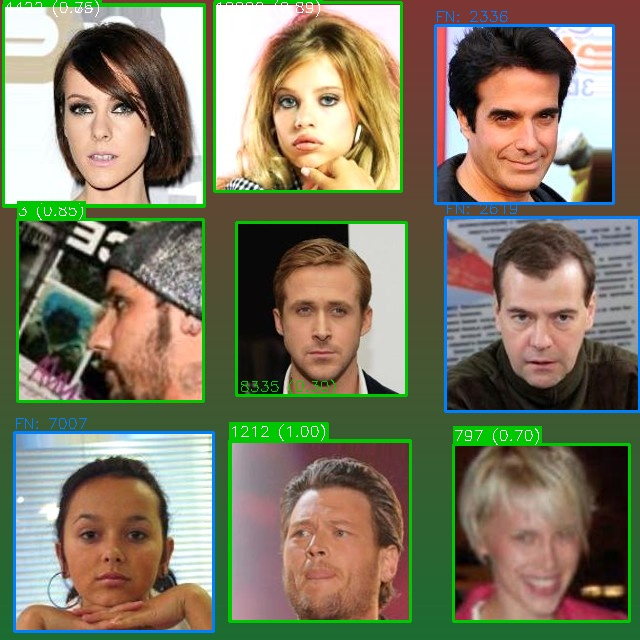
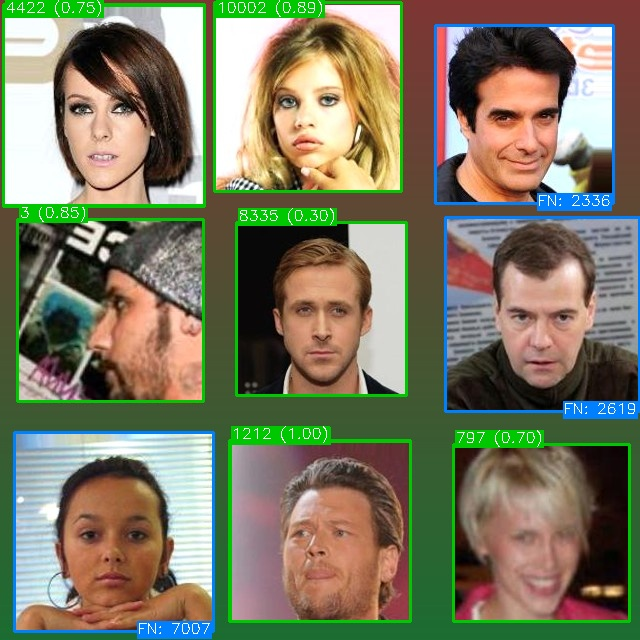
Improved Gallery output

diff --git a/Milestone_4/generate_gallery.py b/Milestone_4/generate_gallery.py
@@ -174,14 +174,19 @@ def main():
                 correct = False; color = (0, 0, 255)
             cv2.rectangle(annotated, (x1, y1), (x2, y2), color, 2)
             text = f"{pred_label} ({confidence:.2f})"
-            if source == "classifier":
-                (tw, th), _ = cv2.getTextSize(text, cv2.FONT_HERSHEY_SIMPLEX, 0.5, 1)
-                cv2.rectangle(annotated, (x1, max(y1-th-6,0)), (x1+tw, y1), color, -1)
-                cv2.putText(annotated, text, (x1, max(y1-4,12)),
-                            cv2.FONT_HERSHEY_SIMPLEX, 0.5, (255,255,255), 1)
+            (tw, th), baseline = cv2.getTextSize(text, cv2.FONT_HERSHEY_SIMPLEX, 0.5, 1)
+            # Place label in a distinct corner by outcome to reduce overlap:
+            #   TP -> top-left, Misclassified -> top-right, FP -> bottom-left
+            if is_tp and pred_label == gt_label:
+                tx, ty = x1 + 2, y1 - 2
+            elif is_tp:
+                tx, ty = x2 - tw - 2, y1 - 2
             else:
-                cv2.putText(annotated, text, (x1+3, y2-4),
-                            cv2.FONT_HERSHEY_SIMPLEX, 0.5, color, 1)
+                tx, ty = x1 + 2, y2 + 2
+            tx = max(0, min(tx, w - tw))
+            ty = max(th, min(ty, h))
+            cv2.rectangle(annotated, (tx, ty - th), (tx + tw, ty + baseline), color, -1)
+            cv2.putText(annotated, text, (tx, ty), cv2.FONT_HERSHEY_SIMPLEX, 0.5, (255,255,255), 1)
             image_faces.append({"det_label": det["class_name"], "pred_label": pred_label,
                                 "confidence": confidence, "source": source,
                                 "gt_label": gt_label, "iou": best_iou, "correct": correct})
@@ -189,8 +194,13 @@ def main():
             if not gt_matched[j]:
                 gx1, gy1, gx2, gy2 = gt["bbox"]
                 cv2.rectangle(annotated, (gx1, gy1), (gx2, gy2), (255,128,0), 2)
-                cv2.putText(annotated, f"FN: {gt['class_name']}", (gx1, gy1-4),
-                            cv2.FONT_HERSHEY_SIMPLEX, 0.5, (255,128,0), 1)
+                fn_text = f"FN: {gt['class_name']}"
+                (tw2, th2), bl2 = cv2.getTextSize(fn_text, cv2.FONT_HERSHEY_SIMPLEX, 0.5, 1)
+                # FN -> bottom-right corner of the missed GT box
+                fx = max(0, min(gx2 - tw2 - 2, w - tw2))
+                fy = max(th2, min(gy2 + 2, h))
+                cv2.rectangle(annotated, (fx, fy - th2), (fx + tw2, fy + bl2), (255,128,0), -1)
+                cv2.putText(annotated, fn_text, (fx, fy), cv2.FONT_HERSHEY_SIMPLEX, 0.5, (255,255,255), 1)
         cv2.imwrite(os.path.join(GALLERY_DIR, f"baseline_{img_name}"), annotated)
         n_correct = sum(1 for f in image_faces if f["correct"])
         n_incorrect = sum(1 for f in image_faces if not f["correct"])

diff --git a/Milestone_4/generate_gallery_improved.py b/Milestone_4/generate_gallery_improved.py
@@ -173,14 +173,19 @@ def main():
                 correct = False; color = (0, 0, 255)
             cv2.rectangle(annotated, (x1, y1), (x2, y2), color, 2)
             text = f"{pred_label} ({confidence:.2f})"
-            if source == "classifier":
-                (tw, th), _ = cv2.getTextSize(text, cv2.FONT_HERSHEY_SIMPLEX, 0.5, 1)
-                cv2.rectangle(annotated, (x1, max(y1-th-6,0)), (x1+tw, y1), color, -1)
-                cv2.putText(annotated, text, (x1, max(y1-4,12)),
-                            cv2.FONT_HERSHEY_SIMPLEX, 0.5, (255,255,255), 1)
+            (tw, th), baseline = cv2.getTextSize(text, cv2.FONT_HERSHEY_SIMPLEX, 0.5, 1)
+            # Place label in a distinct corner by outcome to reduce overlap:
+            #   TP -> top-left, Misclassified -> top-right, FP -> bottom-left
+            if is_tp and pred_label == gt_label:
+                tx, ty = x1 + 2, y1 - 2
+            elif is_tp:
+                tx, ty = x2 - tw - 2, y1 - 2
             else:
-                cv2.putText(annotated, text, (x1+3, y2-4),
-                            cv2.FONT_HERSHEY_SIMPLEX, 0.5, color, 1)
+                tx, ty = x1 + 2, y2 + 2
+            tx = max(0, min(tx, w - tw))
+            ty = max(th, min(ty, h))
+            cv2.rectangle(annotated, (tx, ty - th), (tx + tw, ty + baseline), color, -1)
+            cv2.putText(annotated, text, (tx, ty), cv2.FONT_HERSHEY_SIMPLEX, 0.5, (255,255,255), 1)
             image_faces.append({"det_label": det["class_name"], "pred_label": pred_label,
                                 "confidence": confidence, "source": source,
                                 "gt_label": gt_label, "iou": best_iou, "correct": correct})
@@ -188,8 +193,13 @@ def main():
             if not gt_matched[j]:
                 gx1, gy1, gx2, gy2 = gt["bbox"]
                 cv2.rectangle(annotated, (gx1, gy1), (gx2, gy2), (255,128,0), 2)
-                cv2.putText(annotated, f"FN: {gt['class_name']}", (gx1, gy1-4),
-                            cv2.FONT_HERSHEY_SIMPLEX, 0.5, (255,128,0), 1)
+                fn_text = f"FN: {gt['class_name']}"
+                (tw2, th2), bl2 = cv2.getTextSize(fn_text, cv2.FONT_HERSHEY_SIMPLEX, 0.5, 1)
+                # FN -> bottom-right corner of the missed GT box
+                fx = max(0, min(gx2 - tw2 - 2, w - tw2))
+                fy = max(th2, min(gy2 + 2, h))
+                cv2.rectangle(annotated, (fx, fy - th2), (fx + tw2, fy + bl2), (255,128,0), -1)
+                cv2.putText(annotated, fn_text, (fx, fy), cv2.FONT_HERSHEY_SIMPLEX, 0.5, (255,255,255), 1)
         cv2.imwrite(os.path.join(GALLERY_DIR, f"improved_{img_name}"), annotated)
         n_correct = sum(1 for f in image_faces if f["correct"])
         n_incorrect = sum(1 for f in image_faces if not f["correct"])
